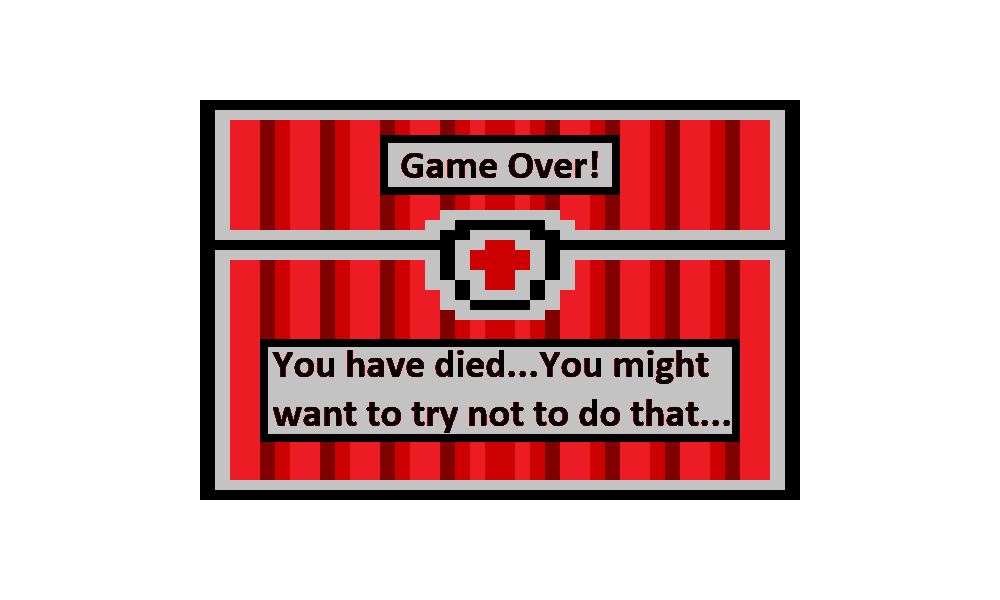
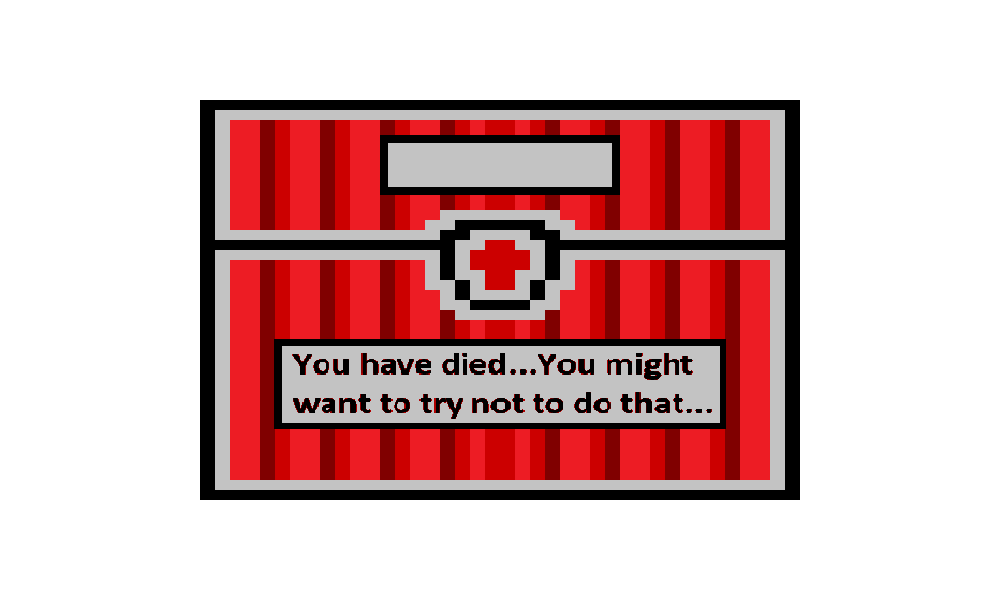
Minor Adjustments
*Added instructions to press "G" to continue to the score screen if the player dies instead of completing the level
*Tweaked appearance of player death screen

Changed region(s): [[0.248, 0.57, 0.744, 0.75], [0.403, 0.24, 0.62, 0.3]]

diff --git a/main/patrick/js/player.js b/main/patrick/js/player.js
@@ -159,6 +159,11 @@ function has_died(){
     pausible = false;
     gameComplete = false;
     menu("has_died");
+    ctx.globalAlpha = 1;
+    ctx.fillStyle="black";
+    ctx.font = "30px Mario";
+    ctx.fillText("DEAD",462,175);
+    ctx.fillText("Press 'G' to continue...",345,465);
     console.log("You died.");
     end_time();
 }
